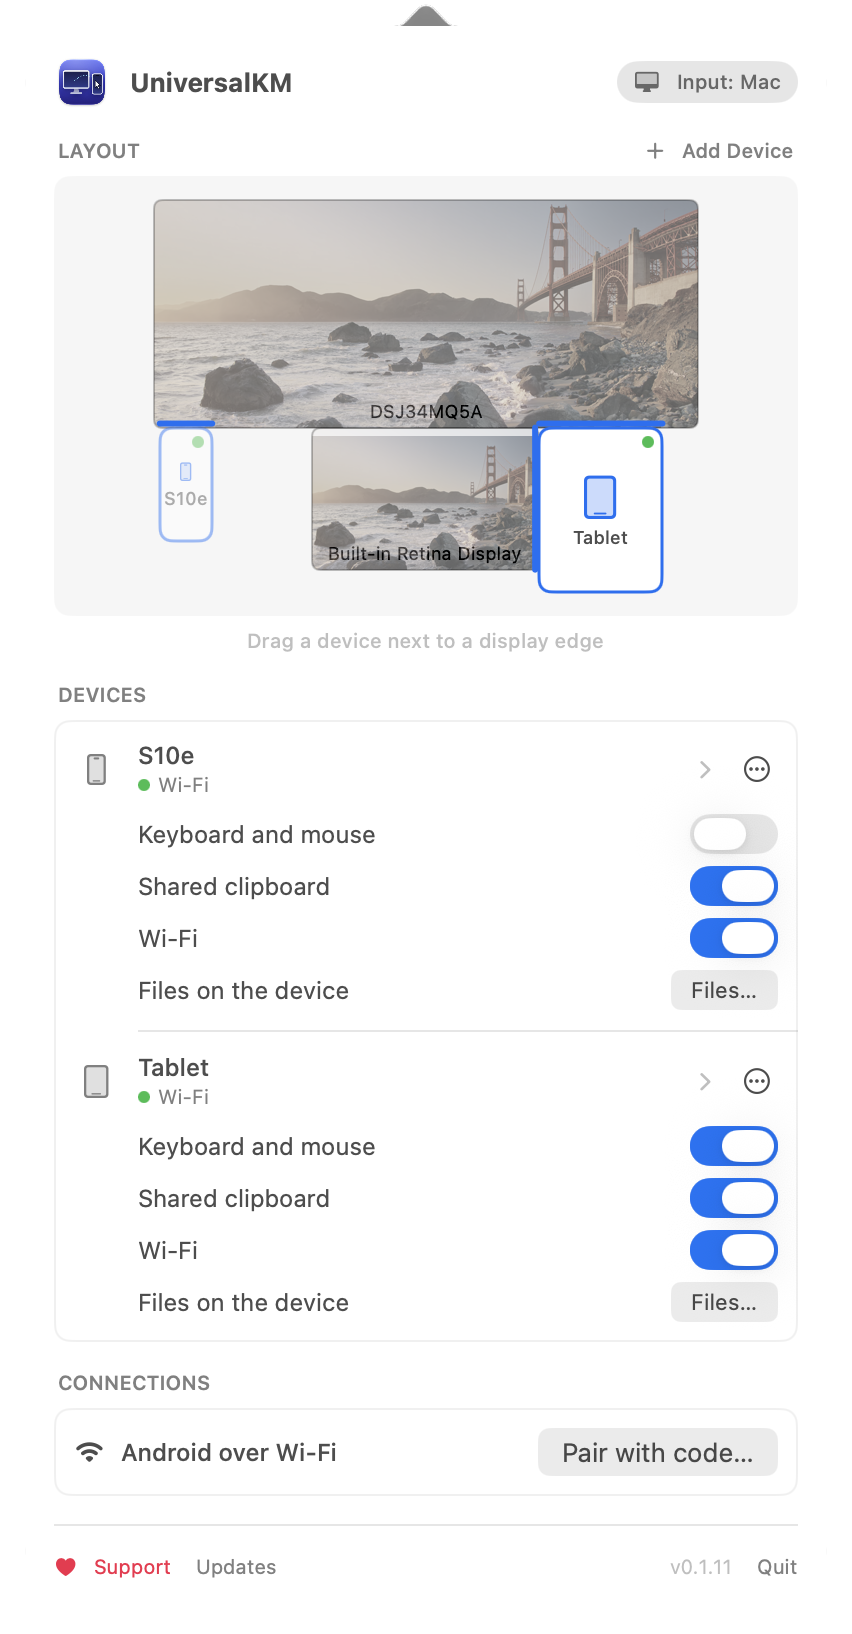
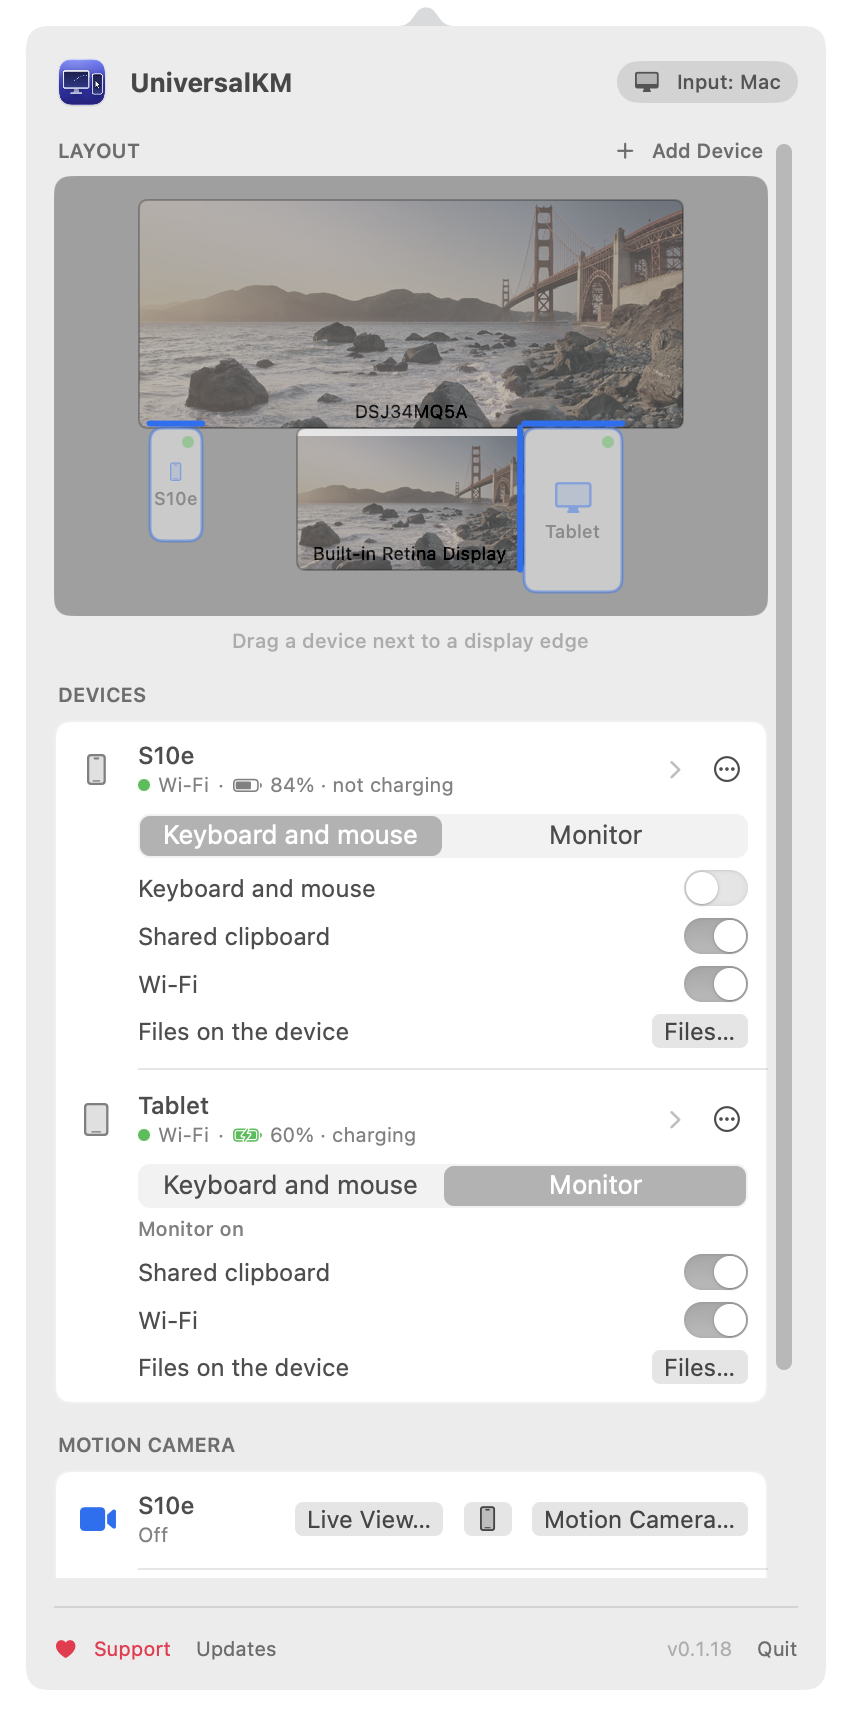
README: the second monitor leads the page; new diagram, panel screenshots with the Monitor switch

diff --git a/README.ru.md b/README.ru.md
@@ -9,6 +9,7 @@
 <p align="center">
   <b>Мышь и клавиатура Mac для любого телефона и планшета.</b><br>
   Подведите курсор к краю экрана, и ввод перейдёт на Android, iPad или iPhone, как в Universal Control, только не только для техники Apple. Для Android хватит кабеля или Wi‑Fi.<br>
+  <b>Или сделайте Android‑телефон или планшет вторым монитором Mac</b>, как Sidecar для iPad: перетаскивайте на него окна и нажимайте пальцем, как мышью.<br>
   А ещё файлы: память Android и фото iPhone прямо в Finder.
 </p>
 
@@ -21,7 +22,11 @@
 </p>
 
 <p align="center">
-  <img src="docs/images/panel-ru.png" width="426" alt="Панель UniversalKM: схема с двумя дисплеями, телефоном и планшетом; в строке каждого устройства переключатели клавиатуры и мыши, общего буфера обмена и Wi‑Fi и кнопка «Файлы…»">
+  <img src="docs/images/second-monitor-ru.svg" alt="Android как второй монитор: Mac отправляет картинку дополнительного дисплея на телефон или планшет по adb (USB‑кабель или Wi‑Fi) в H.264, а касания возвращаются щелчками, перетаскиванием и прокруткой мыши">
+</p>
+
+<p align="center">
+  <img src="docs/images/panel-ru.png" width="426" alt="Панель UniversalKM: схема с двумя дисплеями, телефоном и планшетом. В карточке каждого устройства переключатель «Клавиатура и мышь | Монитор»; планшет сейчас монитор, поэтому его прямоугольник в схеме со значком дисплея. Ниже переключатели общего буфера обмена и Wi‑Fi и кнопка «Файлы…»">
 </p>
 
 ---
@@ -30,6 +35,7 @@
 
 | | |
 |---|---|
+| 🖥 **Android как второй монитор** | Переключите Android‑телефон или планшет с «Клавиатура и мышь» на «Монитор», и он станет вторым дисплеем Mac, как Sidecar для iPad: на него можно перетаскивать окна и нажимать пальцем, как мышью. Он стоит там, где устройство в вашей раскладке, и поворачивается вместе с ним. Нужны adb (кабель или Wi‑Fi) и право «Запись экрана». [Подробнее](#android-как-второй-монитор) |
 | 🖱 **Переход по краю** | Телефон или планшет ставится на схеме к краю любого дисплея. Курсор, упёршийся в этот край, уходит на устройство вместе с клавиатурой. |
 | ↩ **Возврат так же** | Доведите курсор до края устройства, обращённого к Mac, и толкните дальше: ввод вернётся на Mac на той же высоте. ⌃⌥⌘⎋ возвращает всегда. |
 | 👻 **Курсор Mac не мешает** | Пока вы управляете устройством, курсор Mac скрыт и стоит на месте. |
@@ -40,7 +46,6 @@
 | 📋 **Общий буфер обмена с Android** | Текст, скопированный на Mac, вставляется на Android‑устройстве, и наоборот. Работает через adb (отладка по USB или по Wi‑Fi). |
 | 📂 **Файлы Android** | Окно с памятью телефона: фото и файлы перетаскиваются в Finder и обратно, по Wi‑Fi или по кабелю с отладкой. |
 | 🖼 **Фото iPhone** | Окно с фото и видео iPhone на кабеле: скопировать на Mac, удалить с iPhone. |
-| 🖥 **Android как второй монитор** | Переключите Android‑телефон или планшет с «Клавиатура и мышь» на «Монитор», и он станет вторым дисплеем Mac, как Sidecar для iPad: на него можно перетаскивать окна и нажимать пальцем, как мышью. Он стоит там, где устройство в вашей раскладке, и поворачивается вместе с ним. Нужны adb (кабель или Wi‑Fi) и право «Запись экрана». [Подробнее](#android-как-второй-монитор) |
 | 🎥 **Камера движения** | Android-телефон или планшет пишет видео, пока перед ним что-то движется, и хранит ролики; работает без Mac. Ролики и живую картинку можно смотреть с Mac. |
 | 📡 **iPhone: ChameleonUltra** | ChameleonUltra (или похожая Bluetooth‑плата) работает Bluetooth‑клавиатурой и мышью для любого устройства, в том числе iPhone. |
 | 🔄 **Обновления** | Обновления ставятся из приложения (Sparkle, подписанная лента). Разрешения macOS после обновления не сбрасываются. |
@@ -174,6 +179,10 @@ Mac становится для телефона обычной проводно
 Экран захватывает сервер [scrcpy](https://github.com/Genymobile/scrcpy) (v5.0.1, лицензия Apache 2.0, без изменений, `Resources/scrcpy-server.jar`; `scripts/fetch-scrcpy-server.sh` скачивает его и проверяет SHA-256). Mac кладёт его в `/data/local/tmp` и запускает через `adb` только пока открыто окно. Пока экран устройства выключен, картинка чёрная: Esc или правая кнопка его будят. Защищённые окна (банки, видео с DRM) тоже чёрные. Таков и экран графического ключа: смахните экран блокировки, точки появятся сами (или нажмите кнопку с точками под картинкой); проведите ключ по точкам — они нарисованы там же, где на устройстве.
 
 ## Android как второй монитор
+
+<p align="center">
+  <img src="docs/images/second-monitor-ru.svg" alt="Android как второй монитор: картинка идёт на устройство по adb, касания возвращаются как мышь">
+</p>
 
 В карточке устройства в панели переключатель «Использовать как» ставит телефон или планшет в режим **Клавиатура и мышь** или **Монитор** (как Sidecar для iPad); они исключают друг друга. Монитор — это второй дисплей Mac, показанный на устройстве на весь экран. Он стоит там, где прямоугольник устройства в раскладке (тот же край, тот же сдвиг, тот же физический размер и ориентация): перетащили, изменили размер или повернули прямоугольник — дисплей следует, повернули устройство — поворачиваются оба. Если в настройках устройства нет размера экрана в пикселях, Mac заполняет его сам. Дисплей виден и в Системных настройках → Мониторы: перетаскивайте на него окна. При переключении обратно, а также если устройство или кабель пропали, дисплей убирается, а его окна возвращаются на основной монитор. Работает по проводу (около 12 Мбит/с H.264) и по Wi‑Fi (6 Мбит/с) через `adb`.
 

diff --git a/README.md b/README.md
@@ -9,6 +9,7 @@
 <p align="center">
   <b>Your Mac's mouse and keyboard for any phone or tablet.</b><br>
   Push the cursor against a screen edge and input moves to Android, iPad or iPhone, like Universal Control, but not limited to Apple devices. Android needs nothing but a cable or Wi‑Fi.<br>
+  <b>Or use an Android phone or tablet as a second monitor of the Mac</b>, like Sidecar for iPad: drag windows onto it and touch it like a mouse.<br>
   Plus files: Android storage and iPhone photos straight in Finder.
 </p>
 
@@ -21,7 +22,11 @@
 </p>
 
 <p align="center">
-  <img src="docs/images/panel.png" width="426" alt="UniversalKM panel: the layout with two displays, a phone and a tablet; each device row has switches for the keyboard and mouse, the shared clipboard and Wi‑Fi, and a Files… button">
+  <img src="docs/images/second-monitor.svg" alt="Android as a second monitor: the Mac sends the picture of an extra display to the phone or tablet over adb (USB cable or Wi‑Fi) as H.264, and touches come back as mouse clicks, drags and scrolling">
+</p>
+
+<p align="center">
+  <img src="docs/images/panel.png" width="426" alt="UniversalKM panel: the layout with two displays, a phone and a tablet. Each device card has a Keyboard and mouse | Monitor switch; the tablet is a monitor now, so its rectangle in the layout shows a display icon. Below are the switches for the shared clipboard and Wi‑Fi, and a Files… button">
 </p>
 
 ---
@@ -30,6 +35,7 @@
 
 | | |
 |---|---|
+| 🖥 **Android as a second monitor** | Switch an Android phone or tablet from “Keyboard and mouse” to “Monitor” and it becomes a second display of the Mac, like Sidecar for iPad: drag windows onto it, touch it like a mouse. It stands where the device is in your layout and turns with it. Needs adb (cable or Wi‑Fi) and the Screen Recording permission. [More](#android-as-a-second-display) |
 | 🖱 **Cross at an edge** | Place a phone or tablet next to any edge of any display. When the cursor hits that edge, it moves to the device together with the keyboard. |
 | ↩ **Come back the same way** | Move the cursor to the device edge that faces the Mac and keep pushing: input returns to the Mac at the same height. ⌃⌥⌘⎋ always works too. |
 | 👻 **The Mac cursor stays out of the way** | While you control a device, the Mac cursor is hidden and does not move. |
@@ -40,7 +46,6 @@
 | 📋 **Clipboard shared with Android** | Text copied on the Mac pastes on the Android device, and back. Works over adb (USB debugging or Wi‑Fi). |
 | 📂 **Android files** | A window with the phone's storage: drag photos and files to Finder and back, over Wi‑Fi or a cable with USB debugging. |
 | 🖼 **iPhone photos** | A window with the photos and videos of an iPhone on a cable: copy them to the Mac, delete them from the iPhone. |
-| 🖥 **Android as a second monitor** | Switch an Android phone or tablet from “Keyboard and mouse” to “Monitor” and it becomes a second display of the Mac, like Sidecar for iPad: drag windows onto it, touch it like a mouse. It stands where the device is in your layout and turns with it. Needs adb (cable or Wi‑Fi) and the Screen Recording permission. [More](#android-as-a-second-display) |
 | 🎥 **Motion camera** | An Android phone or tablet records video while something moves in front of it and keeps the clips; it works without the Mac. Watch the clips or the live picture from the Mac. |
 | 📡 **iPhone: ChameleonUltra** | A ChameleonUltra (or a similar Bluetooth board) acts as a Bluetooth keyboard and mouse for any device, an iPhone too. |
 | 🔄 **Updates** | Updates install from the app (Sparkle, signed appcast). macOS permissions survive updates. |
@@ -174,6 +179,10 @@ This is for the times another app holds the camera: while the phone streams to Y
 The screen is captured by [scrcpy](https://github.com/Genymobile/scrcpy)'s server (v5.0.1, Apache License 2.0, unchanged, `Resources/scrcpy-server.jar`; `scripts/fetch-scrcpy-server.sh` downloads it and checks its SHA-256). The Mac copies it to `/data/local/tmp` and runs it through `adb` only while the window is open. While the device screen is off, the picture is black: Esc or the right button wakes it. Protected windows (banking apps, DRM video) are black as well. The lock screen's pattern is such a window: swipe the lock screen up, the dots appear by themselves (or press the dots button under the picture); draw your pattern through the dots it shows where they are on the device.
 
 ## Android as a second display
+
+<p align="center">
+  <img src="docs/images/second-monitor.svg" alt="Android as a second monitor: the picture goes to the device over adb, touches come back as the mouse">
+</p>
 
 In the device's card in the panel, “Use as” switches the phone or tablet between **Keyboard and mouse** and **Monitor** (like Sidecar for iPad); they exclude each other. As a monitor the device is a second display of the Mac, shown on it full screen. The display stands where the device's rectangle is in the layout (same edge, same offset, same physical size and orientation); moving, resizing or turning it there moves the display, and turning the device turns both. The Mac fills in the device's pixel size in its settings when it is missing. The display is in System Settings → Displays too; drag windows onto it. Switching back, the device or the cable going away removes the display, and its windows return to the main monitor. It works over the cable (about 12 Mbit/s of H.264) or Wi‑Fi (6 Mbit/s) through `adb`.
 
